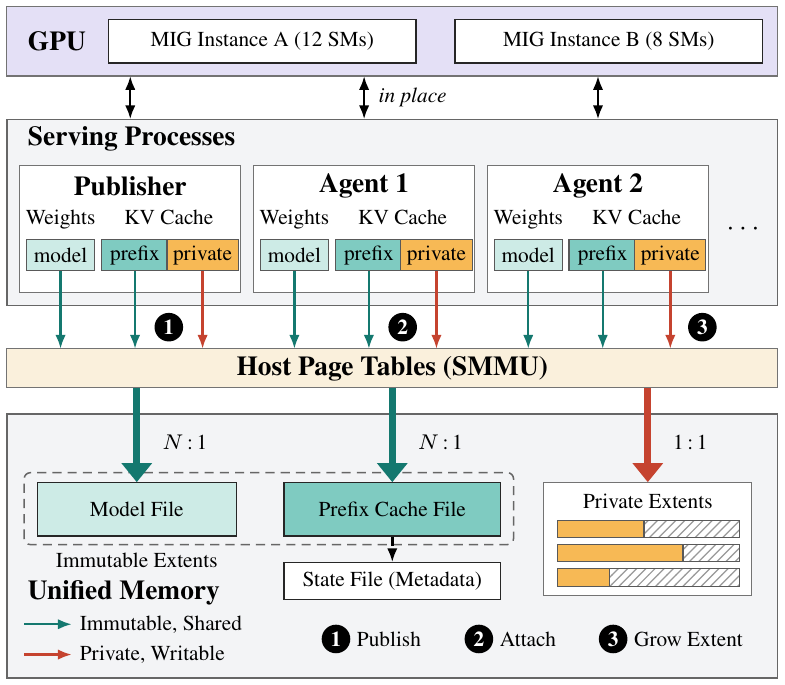
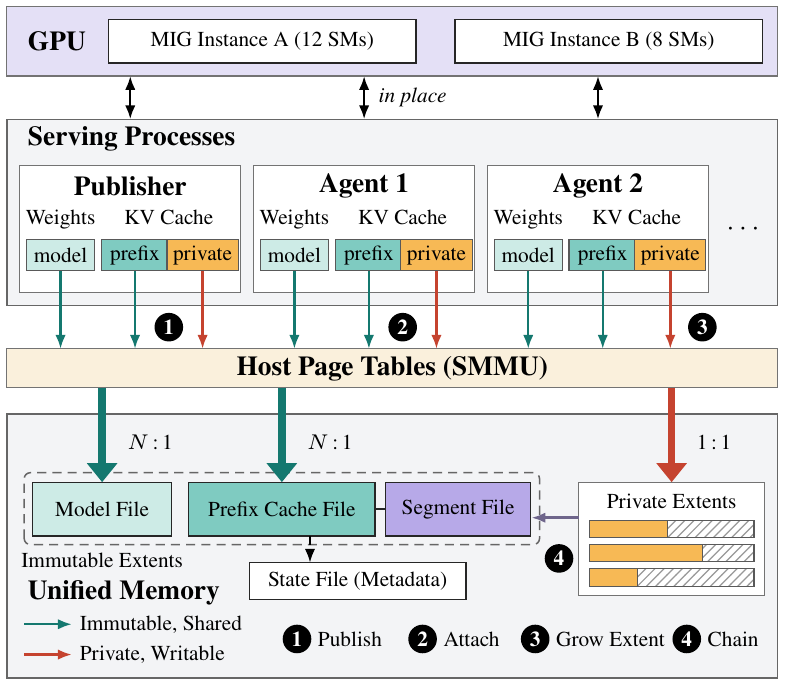
Figures: architecture figure shows the segment file of an extent chain

diff --git a/figures/src/overall_architecture.tex b/figures/src/overall_architecture.tex
@@ -52,37 +52,45 @@
 % ---------------- unified memory ----------------
 \draw[layer] (0,0) rectangle (8.9,3.05);
 \node[ttl, anchor=west] at (0.12,0.98) {Unified Memory};
-\draw[black!60, line width=0.5pt, densely dashed, rounded corners=2pt] (0.2,1.54) rectangle (5.85,2.37);
-\node[tag] at (1.5,1.36) {Immutable Extents};
-\node[comp, fill=modelc, minimum width=2.3cm, minimum height=0.62cm] (mfile) at (1.5,1.95) {Model File};
-\node[comp, fill=sharedc, minimum width=2.5cm, minimum height=0.62cm] (pfile) at (4.45,1.95) {Prefix Cache File};
-\node[comp, minimum width=2.5cm, minimum height=0.42cm] (sfile) at (4.45,1.12) {State File (Metadata)};
-\draw[arr, densely dashed] (pfile.south) -- (sfile.north);
+\draw[black!60, line width=0.5pt, densely dashed, rounded corners=2pt] (0.2,1.54) rectangle (6.15,2.37);
+\node[tag] at (1.1,1.36) {Immutable Extents};
+\node[comp, fill=modelc, minimum width=1.6cm, minimum height=0.62cm] (mfile) at (1.1,1.95) {Model File};
+% the prefix and the segment that an agent publishes after it: a chain
+\node[comp, fill=sharedc, minimum width=2.15cm, minimum height=0.62cm] (pfile) at (3.175,1.95) {Prefix Cache File};
+\node[comp, fill=segc, minimum width=1.68cm, minimum height=0.62cm] (gfile) at (5.21,1.95) {Segment File};
+\draw[black!85, line width=0.8pt] (pfile.east) -- (gfile.west);
+\node[comp, minimum width=2.5cm, minimum height=0.42cm] (sfile) at (4.05,1.12) {State File (Metadata)};
+\draw[arr, densely dashed] (3.5,1.64) -- (3.5,1.33);
 % the private tails: one per process, backed up to the rows in use
-\draw[sub, fill=white] (6.2,0.95) rectangle (8.6,2.26);
-\node[tag] at (7.4,2.04) {Private Extents};
-\foreach \y/\u in {1.72/1.0,1.44/1.45,1.16/0.6} {
-  \node[seg, fill=tailc, minimum width=\u cm, minimum height=0.2cm, anchor=west] at (6.35,\y) {};
-  \node[free, minimum width=2.1cm-\u cm, minimum height=0.2cm, anchor=west] at (6.35+\u,\y) {};
+\draw[sub, fill=white] (6.6,0.95) rectangle (8.75,2.26);
+\node[tag] at (7.675,2.04) {Private Extents};
+\foreach \y/\u in {1.72/0.9,1.44/1.3,1.16/0.55} {
+  \node[seg, fill=tailc, minimum width=\u cm, minimum height=0.2cm, anchor=west] at (6.72,\y) {};
+  \node[free, minimum width=1.9cm-\u cm, minimum height=0.2cm, anchor=west] at (6.72+\u,\y) {};
 }
-\draw[fat, roline] (1.5,3.35) -- (1.5,2.26);
-\draw[fat, roline] (4.45,3.35) -- (4.45,2.26);
-\draw[fat, rwline] (7.4,3.35) -- (7.4,2.26);
-\node[tag, anchor=west] at (1.75,2.72) {$N$\,:\,1};
-\node[tag, anchor=west] at (4.7,2.72) {$N$\,:\,1};
-\node[tag, anchor=west] at (7.65,2.72) {1\,:\,1};
+% an agent publishes its private extent as the next segment of the chain
+\draw[arr, segc!60!black] (6.6,1.85) -- (gfile.east |- 0,1.85);
+\node[num] at (6.375,1.38) {4};
+\draw[fat, roline] (1.1,3.35) -- (1.1,2.26);
+\draw[fat, roline] (3.175,3.35) -- (3.175,2.26);
+\draw[fat, rwline] (7.675,3.35) -- (7.675,2.26);
+\node[tag, anchor=west] at (1.35,2.72) {$N$\,:\,1};
+\node[tag, anchor=west] at (3.425,2.72) {$N$\,:\,1};
+\node[tag, anchor=west] at (7.925,2.72) {1\,:\,1};
 
 % ---------------- legend ----------------
 \draw[arr, roline] (0.2,0.62) -- (0.75,0.62);
 \node[tag, anchor=west] at (0.8,0.62) {Immutable, Shared};
 \draw[arr, rwline] (0.2,0.27) -- (0.75,0.27);
 \node[tag, anchor=west] at (0.8,0.27) {Private, Writable};
-\node[num] at (3.8,0.45) {1};
-\node[tag, anchor=west] at (4.0,0.45) {Publish};
-\node[num] at (5.45,0.45) {2};
-\node[tag, anchor=west] at (5.65,0.45) {Attach};
-\node[num] at (7.0,0.45) {3};
-\node[tag, anchor=west] at (7.2,0.45) {Grow Extent};
+\node[num] at (3.35,0.45) {1};
+\node[tag, anchor=west] at (3.55,0.45) {Publish};
+\node[num] at (4.8,0.45) {2};
+\node[tag, anchor=west] at (5.0,0.45) {Attach};
+\node[num] at (6.1,0.45) {3};
+\node[tag, anchor=west] at (6.3,0.45) {Grow Extent};
+\node[num] at (7.85,0.45) {4};
+\node[tag, anchor=west] at (8.05,0.45) {Chain};
 
 \end{tikzpicture}
 \end{document}
